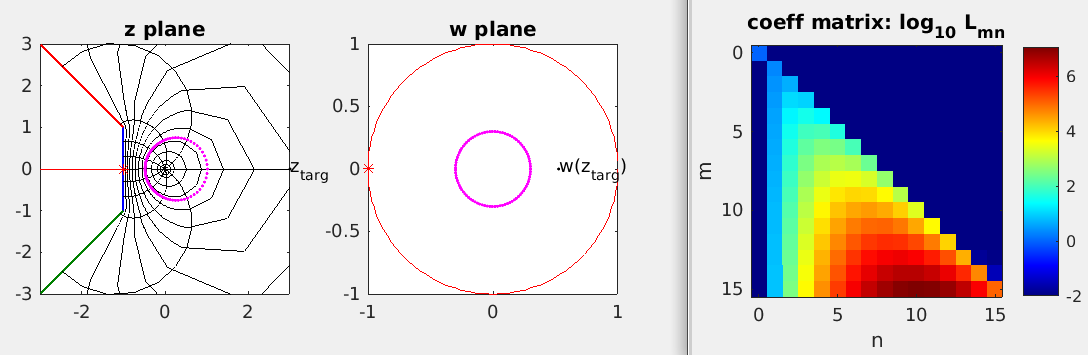
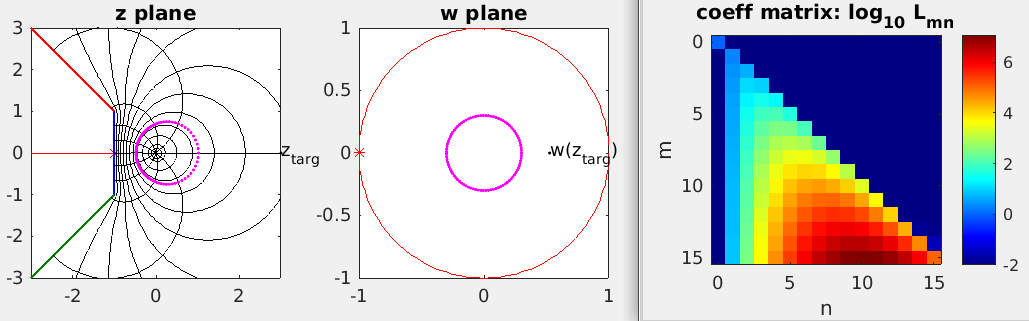
Bertrand et al App. A attempt via hairpin polygon

diff --git a/resum_bertrand_demo.m b/resum_bertrand_demo.m
@@ -1,0 +1,59 @@
+% Test Taylor series resummation via general Schwarz-Christoffel conformal map.
+% Bertrand et al arxiv:1903.11646v3, App. A, toy func going to back side of pole
+% Barnett 7/31/19
+clear; setupsc; verb=1;    % verbosity: 0 just text, 1 figs, 2 more tests...
+
+f = @(z) 1./log(1i*(1-z)+1);     % Bertrand toy func
+p=15;                            % # available coeffs - fails if too large
+r = 0.3; N=100; zj = r*exp(2i*pi*(0:N-1)'/N);  % r-circle pts to extract Taylor
+F = (1/N)*exp(-2i*pi*(0:p)'*(0:N-1)/N);   % rows 0..p of iDFT matrix
+an = diag(r.^-(0:p)) * (F*f(zj));         % rescale to get f's Taylor coeffs
+if verb>1, x = 0.3; fe = f(x); fa = sum(an.'.*x.^(0:p));   % check trunc Taylor
+  fprintf('rel err in Taylor at sensible x=%.3g:  %.3g\n',x,(fe-fa)./fe), end
+
+ztarg = 2.0+0i;                  % a desired z target (see App. A)
+ftrue = f(ztarg)                 % true ans, for validation
+
+a = 0.1; po = polygon([1+(-1-1i)*a, 1, 1+(1-1i)*a, inf]+1i*a, [1.25,1.5,1.25,-2]);  % exterior of hairpin
+%po=polygon([inf 1 1-1i],[-2 2 1]);   % exterior domain of vertical slit, fails
+%po=polygon([inf 1 2-1i],[-2 1.75 1.25]);   % 2-point hairpin, worse
+g = center(diskmap(po),0);    % set conformal center (preimage of origin)
+if verb>1, figure; plot(g); title('SC poly and map, in z plane'); end
+iw = @(w) eval(g,w);     % z(w), our inv map, inline func
+w = @(z) evalinv(g,z);   % w(z), our fwd map. Note SC evalinv is slow
+  
+if verb, z = 0.4+0.6i; fprintf('check inv map good: %.3g\n',abs(iw(w(z))-z)),end
+wtarg = w(ztarg);                    % target in w-plane
+
+% get L...
+r = 0.3; [L Nc] = matrixfrominvmap(iw,p,r);   % r<1 but not too small
+
+if verb, figure(2); imagesc(0:p,0:p,log10(abs(L)));   % check L
+  axis equal tight; colorbar; title('coeff matrix: log_{10} L_{mn}');
+  v=caxis; v(1)=-2; caxis(v); xlabel('n'); ylabel('m');
+  r2 = 1.2*r; L2 = matrixfrominvmap(iw,p,r2);   % check stability wrt r
+  fprintf('est L rel acc: %.3g\n',norm(L-L2)/norm(L)) % p=10: L acc to 1e-13
+end
+
+if verb    % plot both planes, first z then w...
+  figure(1); clf; subplot(1,2,1);
+  warning('off','MATLAB:hg:EraseModeIgnored');   % since toolbox is too old
+  plot(1,0,'r*'); hold on; plot([1 1],[-1 -10],'r*-');  % pole & branch cut
+  plot(0,0,'ko'); axis equal; axis(3*[-1 1 -1 1]);
+  plot(g);    % overloaded SC map and polygon plot method
+  plot(real(ztarg),imag(ztarg),'k.'); title('z plane');
+  text(real(ztarg),imag(ztarg),'z_{targ}');
+  plot(iw(r*exp(2i*pi*(1:Nc)/Nc)),'m.');   % colloc pts used to get L
+  %
+  subplot(1,2,2); plot(exp(1i*2*pi*(1:100)/100),'r-');  % check is unit circ
+  hold on; plot(real(wtarg),imag(wtarg),'k.');
+  text(real(wtarg),imag(wtarg),'w(z_{targ})');
+  plot(r*exp(2i*pi*(1:Nc)/Nc),'m.'); axis tight equal; title('w plane');
+end
+
+cn = L*an;                        % get w-plane Taylor coeffs
+%cn = cn .* erfc([-p/2:p/2]'/p*5.0)/2;  % roll off the series? - fails
+disp('w-plane Taylor coeff mags c_n (should decay!):'); disp(abs(cn))
+ftarg = sum(cn.'.*wtarg.^(0:p))   % do the eval
+e = abs((ftarg-ftrue)/ftrue);     % validate error
+fprintf('ztarg=(%.3g,%.3g): f(ztarg) rel err = %.3g\n',real(ztarg),imag(ztarg),e)

diff --git a/resum_log_demo.m b/resum_log_demo.m
@@ -1,12 +1,11 @@
 % Simple test Taylor series resummation via conformal map, for Parcollet/CCQ
 % Barnett 7/2/19. Use SCtoolbox 7/29/19.
-clear; setupsc
-verb=1;    % verbosity: 0 just text, 1 figs, 2 more tests...
+clear; setupsc; verb=1;    % verbosity: 0 just text, 1 figs, 2 more tests...
 
 f = @(z) log(1+z); fsing = -1;   % func to eval in z-plane, & its sing loc
 p=15;                            % # available coeffs
-fn = [0 -(-1).^(1:p)./(1:p)]';   % data: col vec of Taylor coeffs of f about 0
-if verb>1, x = 0.3; fe = f(x); fa = sum(fn.'.*x.^(0:p));   % check trunc Taylor
+an = [0 -(-1).^(1:p)./(1:p)]';   % data: col vec of Taylor coeffs of f about 0
+if verb>1, x = 0.3; fe = f(x); fa = sum(an.'.*x.^(0:p));   % check trunc Taylor
   fprintf('rel err in eval at sensible x=%.3g:  %.3g\n',x,(fe-fa)./fe), end
 
 ztarg = 3+0i;                    % desired z target
@@ -44,6 +43,8 @@ end
 
 if verb    % plot both planes, first z then w...
   figure(1); clf; subplot(1,2,1);
+  plot(real(fsing)+[0 -10],imag(fsing)+[0 0],'r*-'); hold on;  % branch cut
+  plot(0,0,'ko'); axis equal; axis(3*[-1 1 -1 1]);
   if map=='a'
     y=-10:0.1:10; x = -1+y.^2/4; z = b*(x+1i*y);   %  unit circ preimage in z
     plot(z,'.-'); hold on; plot([-b 0],[0,2*b],'ko');  % check parabola params
@@ -51,8 +52,6 @@ if verb    % plot both planes, first z then w...
     warning('off','MATLAB:hg:EraseModeIgnored');   % since toolbox is too old
     plot(g); hold on    % overloaded SC map and polygon plot method
   end
-  plot(real(fsing)+[0 -10],imag(fsing)+[0 0],'r*-');  % branch cut
-  plot(0,0,'ko'); axis equal; axis(3*[-1 1 -1 1]);
   plot(real(ztarg),imag(ztarg),'k.'); title('z plane');
   text(real(ztarg),imag(ztarg),'z_{targ}');
   plot(iw(r*exp(2i*pi*(1:Nc)/Nc)),'m.');   % colloc pts used to get L
@@ -65,7 +64,7 @@ if verb    % plot both planes, first z then w...
   plot(r*exp(2i*pi*(1:Nc)/Nc),'m.'); axis tight equal; title('w plane');
 end
 
-c = L*fn;                        % get w-plane Taylor coeffs
-ftarg = sum(c.'.*wtarg.^(0:p))   % do the eval
-e = (ftarg-ftrue)/ftrue;         % validate error
+cn = L*an;                        % get w-plane Taylor coeffs
+ftarg = sum(cn.'.*wtarg.^(0:p))   % do the eval
+e = abs((ftarg-ftrue)/ftrue);     % validate error
 fprintf('ztarg=(%.3g,%.3g): f(ztarg) rel err = %.3g\n',real(ztarg),imag(ztarg),e)

diff --git a/setupsc.m b/setupsc.m
@@ -1,2 +1,2 @@
 % change this to location of your SC Toolbox installation:
-addpath ~/matlab/sc
+addpath ~/matlab/sc-toolbox

diff --git a/README.md b/README.md
@@ -5,7 +5,9 @@ Numerical tool for resummation of a Taylor series via conformal mapping.
 Just initial MATLAB experiments for now, including version which uses
 the Schwarz-Christoffel toolbox to handle general polygonal regions.
 
-Author: Alex Barnett. 7/31/19.
+Author: Alex Barnett. 7/31/19
+
+![resum_log_demo image](images/log_demo.png)
 
 
 ### The task
@@ -23,16 +25,20 @@ outside the disc of convergence of this Taylor series.
 Clearly the knowledge that &Omega; includes points outside this disc
 must be used.
 
-Applications include: quantum systems where Taylor coeffs at origin
+This is driven by an application of O. Parcollet and collaborators
+(see Bertrand et al arxiv:1903.11646v3).
+They study quantum systems where Taylor coeffs at origin
 are given by diagrammatic or QMC methods, but there are known singularities
-and branch cuts near by.
+and branch cuts near by. Their notation uses _U_ instead of _z_.
 
-![resum_log_demo image](images/log_demo.png)
 
 ### Prerequisites
 
 * MATLAB. Tested with version R2017a.
-* [SC Toolbox](http://www.math.udel.edu/~driscoll/SC/). Tested with version 2.4.1.
+* [SC Toolbox](https://github.com/tobydriscoll/sc-toolbox).
+This appears to be more recently updated (2013) than
+[the old version 2.4.1](http://www.math.udel.edu/~driscoll/SC/) (2009).
+However in neither version does the GUI `polyedit` work for me.
 
 ### Installation
 
@@ -41,7 +47,7 @@ Follow the above green button to clone this repo into your own directory.
 In the code `setupsc.m`, change the `addpath` command to point to your
 SC Toolbox directory.
 
-From MATLAB, run `resum_log_demo`, which should produce figures including the above, and output something like:
+From MATLAB, run `resum_log_demo`, which should produce figures including the above, and output:
 
 ```
 >> resum_log_demo
@@ -51,7 +57,7 @@ check inv map good: 3.51e-16
 est L rel acc: 3.78e-08
 ftarg =
            1.38629167735975 +  2.26828892182112e-06i
-ztarg=(3,0): f rel err = -1.94e-06
+ztarg=(3,0): f rel err = 2.53e-06
 ```
 
 This illustrates 6-digit accuracy in the evaluation of log(1+_z_) at
@@ -83,6 +89,10 @@ for _j_=1,...,_N_.
 One must choose a suitable radius _r_ and number of points _N_, and check
 stability with respect to these two parameters (in practice choosing
 _N_ is easy, and it seems there is a range of _r_ that is stable).
+Note that _r_ can be large enough that the _z_-plane images of the circle points
+are outside the disc of convergence of _f_(_z_); this is because
+the procedure for _L_ is independent of _f_, and
+only monomials are sampled at these points.
 See `matrixfrominvmap.m`.
 
 Finally, given the vector _a_<sub>0</sub>,...,_a_<sub>p</sub>
@@ -91,17 +101,28 @@ then use (*) to evaluate the Taylor series for
 <a href="https://www.codecogs.com/eqnedit.php?latex=\inline&space;\tilde&space;f" target="_blank"><img src="https://latex.codecogs.com/gif.latex?\inline&space;\tilde&space;f" title="\tilde f" /></a> at _w_(_z_), for any desired
 target _z_.
 
-Note that _L_ involves exponentially large entries.
+Note that _L_ involves large entries that grow exponentially with _p_,
+as the right-most plot above shows.
+
 
 ### Code usage
 
-* `matrixfrominvmap.m` : the main utility which outputs the first _p_-by-_p_ block of the lower-triangular coefficient-mapping matrix _L_, given only a function handle of the map from _w_ to _z_, and a radius _r_. Called without arguments, a self-test demo is done.
+* `matrixfrominvmap.m` : the main utility which outputs the first _p_-by-_p_ block of the lower-triangular coefficient-mapping matrix _L_, given only a function handle of the map from _w_ to _z_, and a radius _r_. The user must choose _r_, but the internal number of points _N_ is set automatically. Called without arguments, a self-test demo is done.
 
-* `resum_log_demo.m` : the demo which tests the idea for function _f_(_z_) = log(1+_z_), allowing two different choices of conformal map. All plotting code sections within `if verb, ..., end` can be removed to leave the math.
+* `resum_log_demo.m` : tests the idea for the function _f_(_z_) = log(1+_z_), allowing two different choices of conformal map. Gets 6 digits.
+
+* `resum_bertrand_demo.m` : tests the function _f_(_z_) = 1/log(i(1-_z_)+1)
+used in App. A of Bertrand et al,
+using a map to the exterior of a downwards-pointing hairpin polygon domain.
+Gets 2 digits at _z_=2+0i, 1.5 digits at _z_=1.2+0i.
+
+In the above two demo codes, all plotting code sections within `if verb, ..., end` can be removed to leave the math.
 
 
 
-To create polygons in the SC Toolbox, vertices must be in counter-clockwise order. Here are some notes:
+### Notes about polygons in SC Toolbox
+
+To create polygons, vertices must be in CCW order relative to the interior of the domain (for an unbounded domain this may appear to be CW).
 
 * bounded polygons: vertices as complex numbers, ie `p = polygon([z1 z2 ... zN]);`
 
@@ -109,9 +130,14 @@ To create polygons in the SC Toolbox, vertices must be in counter-clockwise orde
 Interior corner angles divided by pi must also be provided
 (these are called alpha's), ie
 ie `p = polygon([z1 z2 ... zN], [a1 a2 ... aN]);`. Note that the alphas must
-sum to _N_-2, where _N_ is the number of vertices (including 
-It appears _N_ must be at least 3, so that a half-space requires one vertex
-more than one might think.
+sum to _N_-2, where _N_ is the number of vertices (including infinite ones).
+It appears _N_ must be at least 3, so that a half-space or slit
+requires one vertex more than one might think. Trial and error is needed.
+
+Once you have a valid polygon (`p=polygon(...)` has no errors), plot it
+using `plot(p)` to check the shape.
+
+You should be able to graphically draw and edit polygons in SC Toolbox, but I have not got this to work on my MATLAB R2017a.
 
 See the [SC user guide](http://www.math.udel.edu/~driscoll/SC/guide.pdf)
 for polygon examples.
